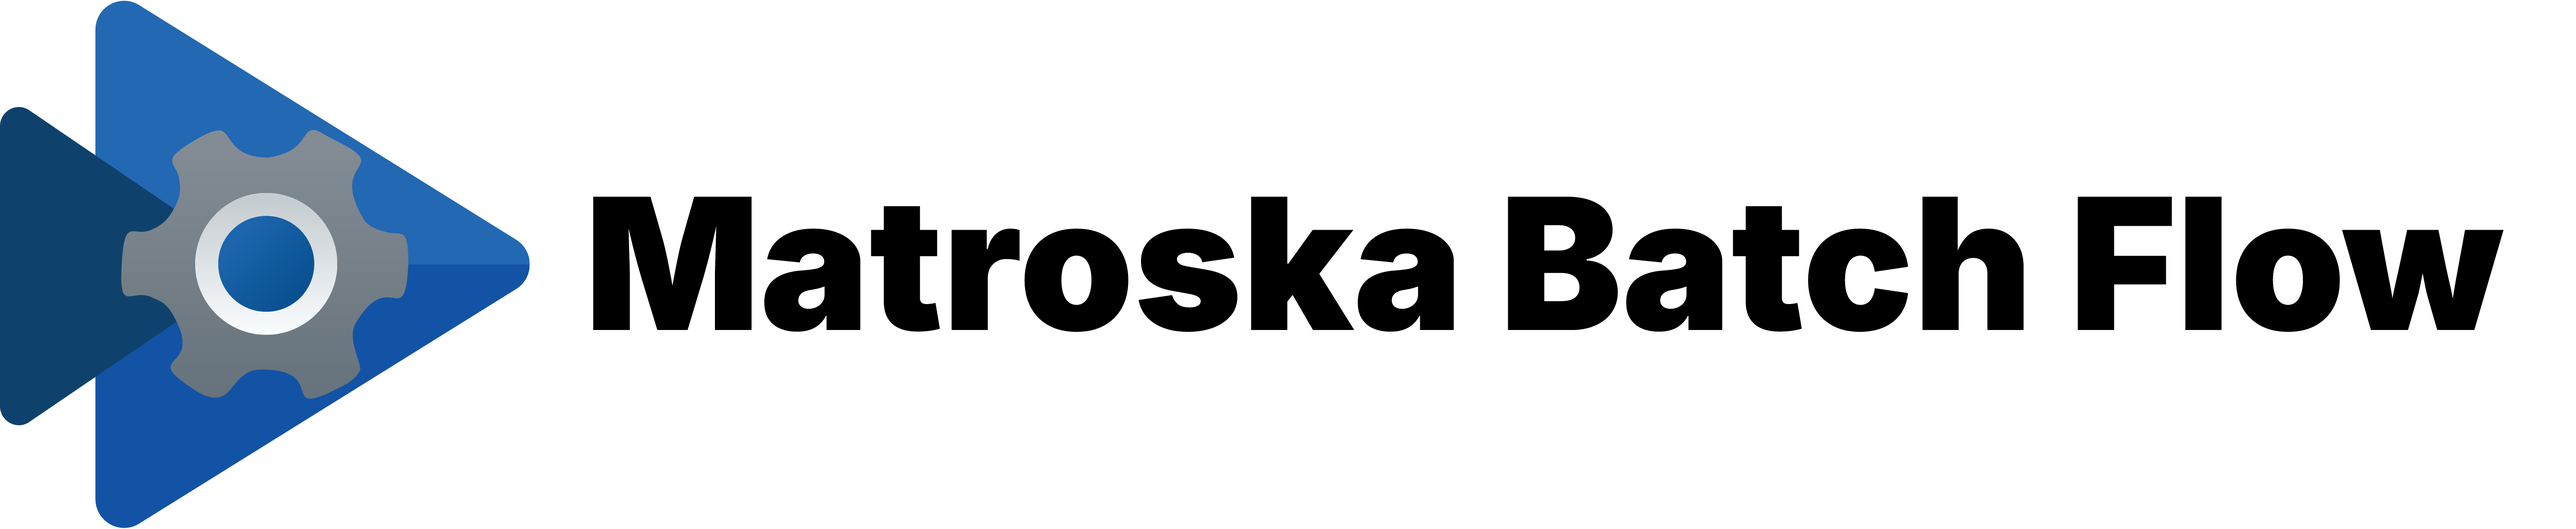
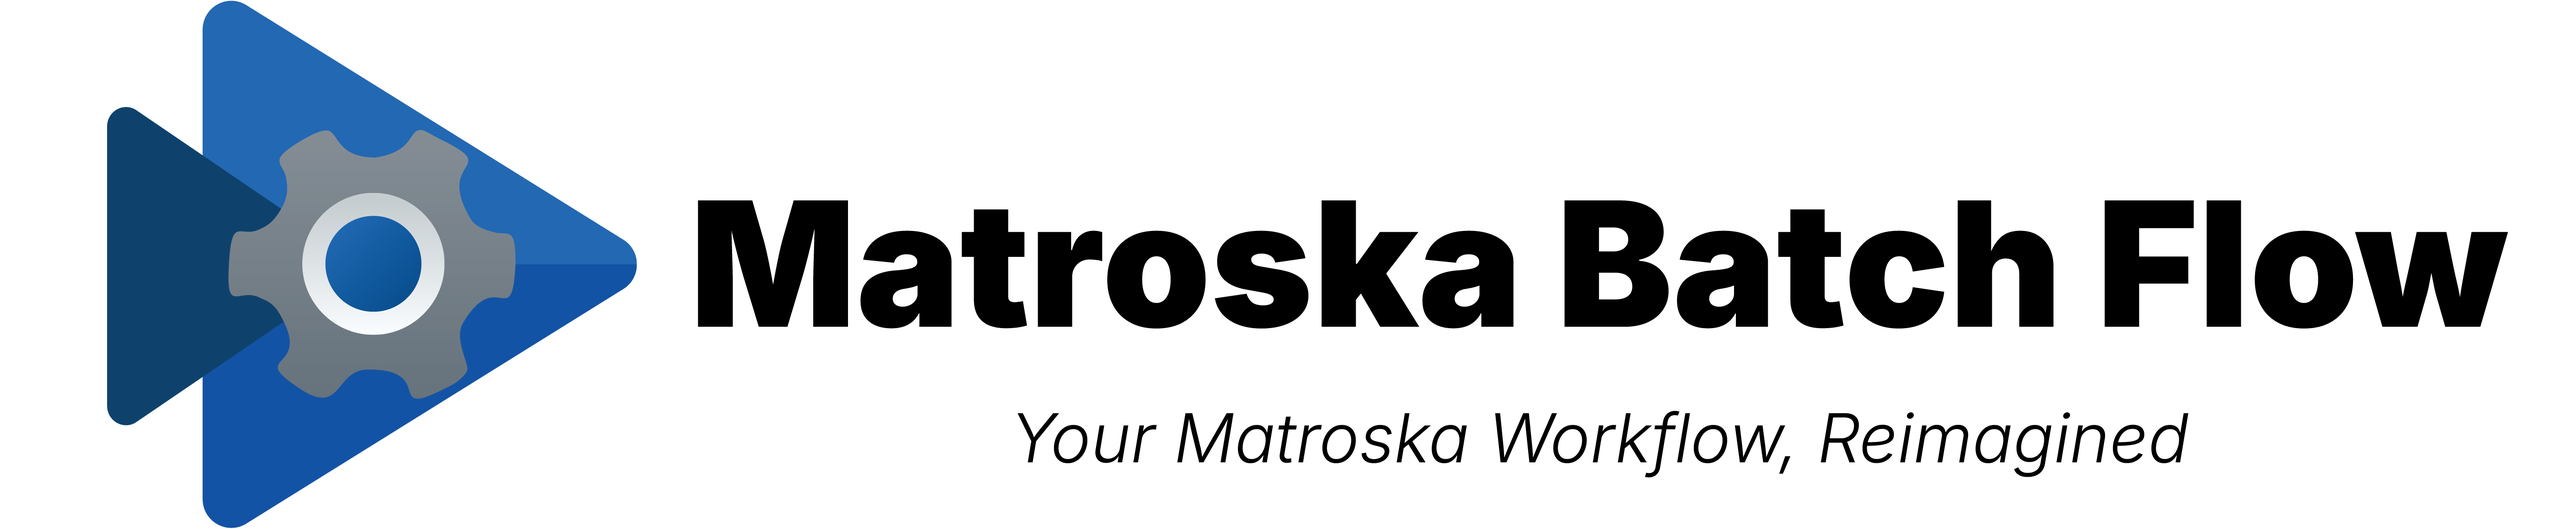
Update README.md

Changed region(s): [[0.0, 0.0, 0.9653, 1.0], [0.3737, 0.7962, 0.8719, 0.888]]

diff --git a/README.md b/README.md
@@ -1,7 +1,3 @@
-<h1 align="center">Matroska Batch Flow</h1>
-
-<h3 align="center">Your Matroska Workflow, Reimagined</h3>
-
 ![Matroska Batch Flow Banner](Assets/Title-Banner.png)
 
 **Matroska Batch Flow** is a powerful tool for batch processing Matroska (`.mkv`) files, designed to help you efficiently manage and modify large collections with ease. It features a modern graphical user interface built with WinUI 3 and Uno Platform, and integrates [MediaInfo](https://mediaarea.net/en/MediaInfo) for extracting detailed file information as well as [MKVToolNix's](https://mkvtoolnix.org) mkvpropedit for fast, mux-less container property editing.
